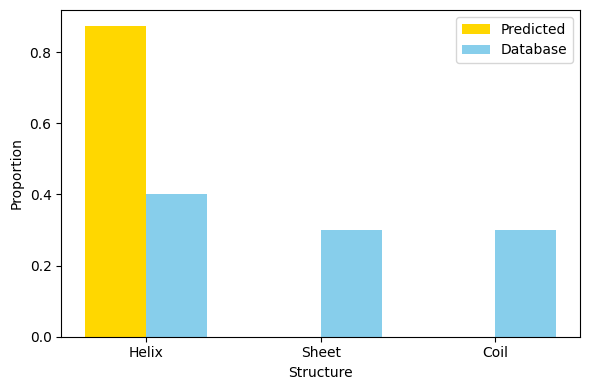
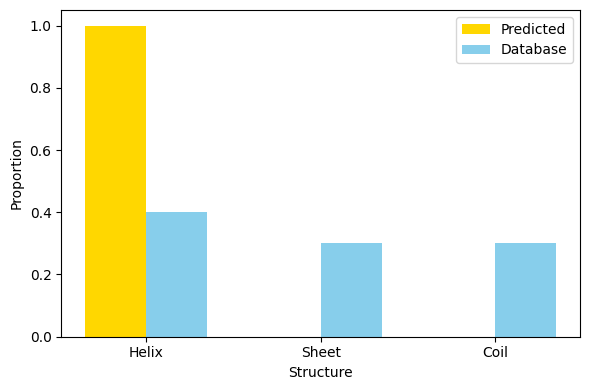
fix: label mapping

diff --git a/app/pages/input_page.py b/app/pages/input_page.py
@@ -94,9 +94,14 @@ class InputPage:
                 
                 results = predict_structure(organism_name, full_sequence)
 
-                # Make sequence string like 'HHEECC...'
-                predicted_sequence = ''.join([pred['label'][0] for pred in results]).upper()  # assuming label like 'Helix', 'Sheet', 'Coil'
-                
+                label_to_hec = {
+                    'helix': 'H',
+                    'strand': 'E',
+                    'turn': 'C'
+                }
+
+                predicted_sequence = ''.join([label_to_hec.get(pred['label'].lower(), 'C') for pred in results])
+
                 print(f"input page predicted sequence: {predicted_sequence}")
                 
                 # Generate the graphs
@@ -109,7 +114,7 @@ class InputPage:
                 # Save the sequence in the page session or state
                 self.page.client_storage.set("predicted_sequence", predicted_sequence)
 
-                print(f"Input Page Client Storage: {self.page.client_storage}")
+                print(f"Input Page Client Storage: {self.page.client_storage.get("predicted_sequence")}")
 
                 self.page.go("/result")
             except Exception as ex:

diff --git a/app/pages/result_page.py b/app/pages/result_page.py
@@ -7,10 +7,8 @@ class ResultPage:
     def __init__(self, page: ft.Page):
         self.page = page
         self.db = next(get_db())
-        self.sequence = self.page.client_storage.get("predicted_sequence") or ""
 
     def create_sequence_visualization(self):
-        print(f"Result Page Client Storage: {self.page.client_storage}")
         sequence_row = ft.Row(
             wrap=True,
             spacing=3,
@@ -34,6 +32,9 @@ class ResultPage:
         )
         
     def build(self):
+        self.sequence = self.page.client_storage.get("predicted_sequence")
+        print(f"Result Page Client Storage: {self.page.client_storage.get("predicted_sequence")}")
+        print(f"Result Page Self Sequence: {self.sequence}")
         
         insights_list = generate_insights(self.sequence)
         insights_column = ft.Column(

diff --git a/app/services/graph_service.py b/app/services/graph_service.py
@@ -13,7 +13,7 @@ def generate_structure_dot_plot(sequence, filename="structure.png"):
     os.makedirs(ASSETS_FOLDER, exist_ok=True)
     save_path = os.path.join(ASSETS_FOLDER, filename)
 
-    plt.figure(figsize=(len(sequence) // 5, 3))
+    plt.figure(figsize=(len(sequence) // 2, 3))
     colors = {'H': 'gold', 'E': 'skyblue', 'C': 'lightgreen'}
     x = range(len(sequence))
     y = [0] * len(sequence)
